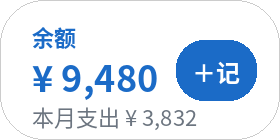
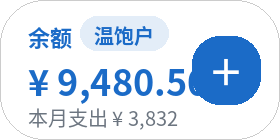
0.9.4：4×2 本月两栏重排 / 2×1 按钮改「＋」称号露全 / 新增 2×2 目标小部件

Changed region(s): [[0.0857, 0.2571, 0.9429, 0.7714], [0.0857, 0.1143, 0.6286, 0.3714], [0.0857, 0.7714, 0.7143, 0.9429]]

diff --git a/apps/yujian/android/app/src/main/kotlin/com/ivyea/yujian/SummaryWidget.kt b/apps/yujian/android/app/src/main/kotlin/com/ivyea/yujian/SummaryWidget.kt
@@ -28,7 +28,7 @@ open class SummaryWidget : AppWidgetProvider() {
 
         fun refreshAll(context: Context) {
             val manager = AppWidgetManager.getInstance(context)
-            for ((cls, layout) in listOf(SummaryWidget::class.java to R.layout.widget_summary, LargeWidget::class.java to R.layout.widget_large, CompactWidget::class.java to R.layout.widget_compact, MiniWidget::class.java to R.layout.widget_mini, CalendarWidget::class.java to R.layout.widget_calendar, GoalsWidget::class.java to R.layout.widget_goals)) {
+            for ((cls, layout) in listOf(SummaryWidget::class.java to R.layout.widget_summary, LargeWidget::class.java to R.layout.widget_large, CompactWidget::class.java to R.layout.widget_compact, MiniWidget::class.java to R.layout.widget_mini, CalendarWidget::class.java to R.layout.widget_calendar, GoalsWidget::class.java to R.layout.widget_goals, GoalsSmallWidget::class.java to R.layout.widget_goals_small)) {
                 val ids = manager.getAppWidgetIds(ComponentName(context, cls))
                 if (ids.isEmpty()) continue
                 val views = build(context, layout)
@@ -84,6 +84,11 @@ open class SummaryWidget : AppWidgetProvider() {
                     v.setOnClickPendingIntent(R.id.widget_add, open(context, "yujian://chat", 2))
                     fillGoals(context, v, p.getString("goals", "") ?: "")
                 }
+                R.layout.widget_goals_small -> {
+                    v.setTextViewText(R.id.widget_disposable, p.getString("disposable", "¥ 0.00"))
+                    v.setOnClickPendingIntent(R.id.widget_root, open(context, "yujian://goals", 4))
+                    fillGoalsSmall(context, v, p.getString("goals", "") ?: "")
+                }
                 else -> v.setOnClickPendingIntent(R.id.widget_add, open(context, "yujian://chat", 2))
             }
             return v
@@ -119,6 +124,25 @@ open class SummaryWidget : AppWidgetProvider() {
                     row.setViewVisibility(R.id.widget_goal_detail, View.VISIBLE)
                 }
                 val pct = o.optInt("p", 0).coerceIn(0, 100)
+                row.setProgressBar(R.id.widget_goal_bar, 100, pct, false)
+                v.addView(R.id.widget_goal_list, row)
+            }
+        }
+
+        /** 2×2 目标：最多 2 条，尾巴（还差多少）和百分比放到进度条下面那行，名字独占一行。 */
+        private fun fillGoalsSmall(context: Context, v: RemoteViews, json: String) {
+            v.removeAllViews(R.id.widget_goal_list)
+            val arr = try { if (json.isEmpty()) JSONArray() else JSONArray(json) } catch (_: Exception) { JSONArray() }
+            val n = minOf(arr.length(), 2)
+            v.setViewVisibility(R.id.widget_goals_empty, if (n == 0) View.VISIBLE else View.GONE)
+            v.setViewVisibility(R.id.widget_goal_list, if (n == 0) View.GONE else View.VISIBLE)
+            for (i in 0 until n) {
+                val o = arr.optJSONObject(i) ?: continue
+                val row = RemoteViews(context.packageName, if (o.optBoolean("d", false)) R.layout.widget_goal_row_s_done else R.layout.widget_goal_row_s)
+                row.setTextViewText(R.id.widget_goal_emoji, o.optString("e", "🎯"))
+                row.setTextViewText(R.id.widget_goal_name, o.optString("n", ""))
+                val pct = o.optInt("p", 0).coerceIn(0, 100)
+                row.setTextViewText(R.id.widget_goal_detail, "$pct% · " + o.optString("t", ""))
                 row.setProgressBar(R.id.widget_goal_bar, 100, pct, false)
                 v.addView(R.id.widget_goal_list, row)
             }
@@ -217,4 +241,8 @@ class CalendarWidget : SummaryWidget() {
 
 class GoalsWidget : SummaryWidget() {
     override val layout: Int get() = R.layout.widget_goals
+}
+
+class GoalsSmallWidget : SummaryWidget() {
+    override val layout: Int get() = R.layout.widget_goals_small
 }

diff --git a/apps/yujian/lib/src/pages/widgets_page.dart b/apps/yujian/lib/src/pages/widgets_page.dart
@@ -4,7 +4,7 @@ import '../app_state.dart';
 import '../platform/home_widget_bridge.dart';
 import '../theme.dart';
 
-/// 桌面小部件：列出六种小部件（预览图 + 尺寸 + 内容），支持的桌面上一键「添加到桌面」，不支持的给手动加法。
+/// 桌面小部件：列出七种小部件（预览图 + 尺寸 + 内容），支持的桌面上一键「添加到桌面」，不支持的给手动加法。
 class WidgetsPage extends StatefulWidget {
   const WidgetsPage({super.key});
   @override
@@ -24,9 +24,10 @@ class _WidgetKind {
 const _kinds = [
   _WidgetKind('summary', '本月', 4, 2, '本月支出、收入、余额 + 财富称号，一键记一笔'),
   _WidgetKind('goals', '目标', 4, 2, '可花的 + 称号 + 最多 3 个目标的进度；点开直接进目标页'),
+  _WidgetKind('goals_small', '目标（小）', 2, 2, '可花的 + 最多 2 个目标的进度'),
   _WidgetKind('calendar', '日历', 4, 4, '月历：每天的支出 / 收入 + 本月收支 + 称号 + 记一笔'),
   _WidgetKind('large', '今日', 2, 2, '今日支出 + 称号 + 本月 + 记一笔'),
-  _WidgetKind('compact', '余额', 2, 1, '余额 + 称号 + 记一笔'),
+  _WidgetKind('compact', '余额', 2, 1, '余额 + 称号 + 一个「＋」记一笔'),
   _WidgetKind('mini', '记一笔', 1, 1, '一个记一笔按钮，点开直接进对话'),
 ];
 

diff --git a/apps/yujian/android/app/src/main/kotlin/com/ivyea/yujian/WidgetBridge.kt b/apps/yujian/android/app/src/main/kotlin/com/ivyea/yujian/WidgetBridge.kt
@@ -38,6 +38,7 @@ object WidgetBridge {
                         "mini" -> MiniWidget::class.java
                         "calendar" -> CalendarWidget::class.java
                         "goals" -> GoalsWidget::class.java
+                        "goals_small" -> GoalsSmallWidget::class.java
                         else -> null
                     }
                     if (cls == null) { result.error("bad_kind", "unknown widget kind: $kind", null); return@setMethodCallHandler }

diff --git a/apps/yujian/lib/src/version.dart b/apps/yujian/lib/src/version.dart
@@ -1,2 +1,2 @@
 /// App 版本号。发版时和 pubspec.yaml 一起改（release.yml 用 tag 校验）。
-const appVersion = '0.9.3';
+const appVersion = '0.9.4';

diff --git a/scripts/gen_widget_previews.py b/scripts/gen_widget_previews.py
@@ -49,19 +49,26 @@ def button(d, x, y, w, h, text, size=13):
 
 
 def summary():
+    """4x2 本月：左栏 余额+称号+最近，右栏 月份/支出/收入/记一笔（照 widget_summary.xml 两栏画）。"""
     img, d = card(280, 140)
     p = 18 * S
-    d.text((p, 14 * S), '余额', font=font(12, True), fill=BLUE)
-    f = font(12)
-    d.text((280 * S - p - d.textlength('9 月', font=f), 14 * S), '9 月', font=f, fill=MUTED)
-    d.text((p, 30 * S), '¥ 12,480.50', font=font(30, True), fill=BLUE)
-    y = 78 * S
-    d.text((p, y), '支出', font=font(11), fill=MUTED)
-    d.text((p, y + 15 * S), '¥ 3,832', font=font(15, True), fill=INK)
-    d.text((p + 78 * S, y), '收入', font=font(11), fill=MUTED)
-    d.text((p + 78 * S, y + 15 * S), '¥ 8,000', font=font(15, True), fill=GREEN)
-    button(d, 280 * S - p - 88 * S, y + 2 * S, 88 * S, 34 * S, '＋ 记一笔')
-    d.text((p, 118 * S), '最近：美团外卖 −¥13.80 · 9/17', font=font(12), fill=MUTED)
+    d.text((p, 16 * S), '余额', font=font(12, True), fill=BLUE)
+    fb = font(11, True); badge = '温饱户'
+    bw = d.textlength(badge, font=fb) + 16 * S; bx = p + 30 * S
+    d.rounded_rectangle([bx, 14 * S, bx + bw, 14 * S + 19 * S], radius=10 * S, fill=(0x1B, 0x6B, 0xC7, 0x1F))
+    d.text((bx + 8 * S, 16 * S), badge, font=fb, fill=BLUE)
+    d.text((p, 40 * S), '¥ 12,480.50', font=font(30, True), fill=BLUE)
+    d.text((p, 88 * S), '最近：美团外卖 −¥13.80 · 9/17', font=font(12), fill=MUTED)
+    # 右栏靠右
+    R = 280 * S - 16 * S
+    def right(text, f, y, col):
+        d.text((R - d.textlength(text, font=f), y), text, font=f, fill=col)
+    right('9 月', font(12), 12 * S, MUTED)
+    right('支出', font(11), 30 * S, MUTED)
+    right('¥ 3,832', font(15, True), 43 * S, INK)
+    right('收入', font(11), 65 * S, MUTED)
+    right('¥ 8,000', font(15, True), 78 * S, GREEN)
+    button(d, R - 88 * S, 104 * S, 88 * S, 30 * S, '＋ 记一笔')
     return img
 
 
@@ -79,12 +86,19 @@ def large():
 
 
 def compact():
+    """2x1 余额：称号胶囊有一整行可用，按钮只一个「＋」。"""
     img, d = card(140, 70)
-    p = 16 * S
+    p = 14 * S
     d.text((p, 10 * S), '余额', font=font(11, True), fill=BLUE)
-    d.text((p, 25 * S), '¥ 9,480', font=font(18, True), fill=BLUE)
-    d.text((p, 50 * S), '本月支出 ¥ 3,832', font=font(11), fill=MUTED)
-    button(d, 140 * S - 12 * S - 40 * S, 20 * S, 40 * S, 30 * S, '＋记', size=12)
+    fb = font(10, True); badge = '温饱户'
+    bw = d.textlength(badge, font=fb) + 14 * S; bx = p + 26 * S
+    d.rounded_rectangle([bx, 8 * S, bx + bw, 8 * S + 17 * S], radius=9 * S, fill=(0x1B, 0x6B, 0xC7, 0x1F))
+    d.text((bx + 7 * S, 10 * S), badge, font=fb, fill=BLUE)
+    d.text((p, 27 * S), '¥ 9,480.50', font=font(18, True), fill=BLUE)
+    d.text((p, 51 * S), '本月支出 ¥ 3,832', font=font(10), fill=MUTED)
+    d.rounded_rectangle([140 * S - 10 * S - 34 * S, 18 * S, 140 * S - 10 * S, 52 * S], radius=14 * S, fill=BLUE)
+    f = font(18, True)
+    d.text((140 * S - 10 * S - 17 * S - d.textlength('＋', font=f) / 2, 22 * S), '＋', font=f, fill=WHITE)
     return img
 
 
@@ -183,8 +197,27 @@ def goals():
     return img
 
 
+def goals_small():
+    """2x2 目标：可花的 + 两个目标（名字一行、进度条、百分比·还差）。"""
+    img, d = card(140, 140)
+    p = 14 * S
+    d.text((p, 12 * S), '可花的', font=font(11, True), fill=BLUE)
+    d.text((p + 36 * S, 10 * S), '¥ 2,180.50', font=font(14, True), fill=BLUE)
+    fe = ImageFont.truetype('/usr/share/fonts/google-noto-emoji/NotoEmoji-Regular.ttf', int(12 * S))
+    y = 40 * S
+    for emoji, name, detail, pct in [('📱', '换手机', '54% · 还差 ¥ 3,199', 54), ('✈', '日本游', '43% · 还差 ¥ 6,800', 43)]:
+        d.text((p, y + 1 * S), emoji, font=fe, fill=BLUE)
+        d.text((p + 18 * S, y), name, font=font(12), fill=INK)
+        by = y + 19 * S
+        d.rounded_rectangle([p, by, 140 * S - p, by + 5 * S], radius=3 * S, fill=(0xE6, 0xEA, 0xF0))
+        d.rounded_rectangle([p, by, p + (140 * S - 2 * p) * pct / 100, by + 5 * S], radius=3 * S, fill=BLUE)
+        d.text((p, by + 8 * S), detail, font=font(10), fill=MUTED)
+        y += 46 * S
+    return img
+
+
 if __name__ == '__main__':
     OUT.mkdir(parents=True, exist_ok=True)
-    for name, fn in [('summary', summary), ('large', large), ('compact', compact), ('mini', mini), ('calendar', calendar), ('goals', goals)]:
+    for name, fn in [('summary', summary), ('large', large), ('compact', compact), ('mini', mini), ('calendar', calendar), ('goals', goals), ('goals_small', goals_small)]:
         fn().save(OUT / f'widget_preview_{name}.png')
         print('wrote', name)

diff --git a/CHANGELOG.md b/CHANGELOG.md
@@ -1,5 +1,11 @@
 # 更新日志
 
+## 0.9.4 — 2026-09-20
+
+- **4×2「本月」小部件重排**：改成左右两栏——左：余额（+ 称号）大字、最近一笔；右：月份 / 支出 / 收入 靠右一列 + 记一笔。以前支出、收入、按钮挤在下面一行，右半边全空
+- **2×1「余额」小部件**：称号胶囊只露一个字的根因是「＋ 记一笔」四个字的按钮把左边挤没了；按钮改成一个「＋」圆钮，称号胶囊独占一行
+- **新增 2×2「目标（小）」小部件**：可花的 + 最多 2 个目标（名字一行、进度条、百分比 · 还差多少）
+
 ## 0.9.3 — 2026-09-20
 
 - 最底档称号「穷逼」改为「贫困户」（直白但不骂人）
